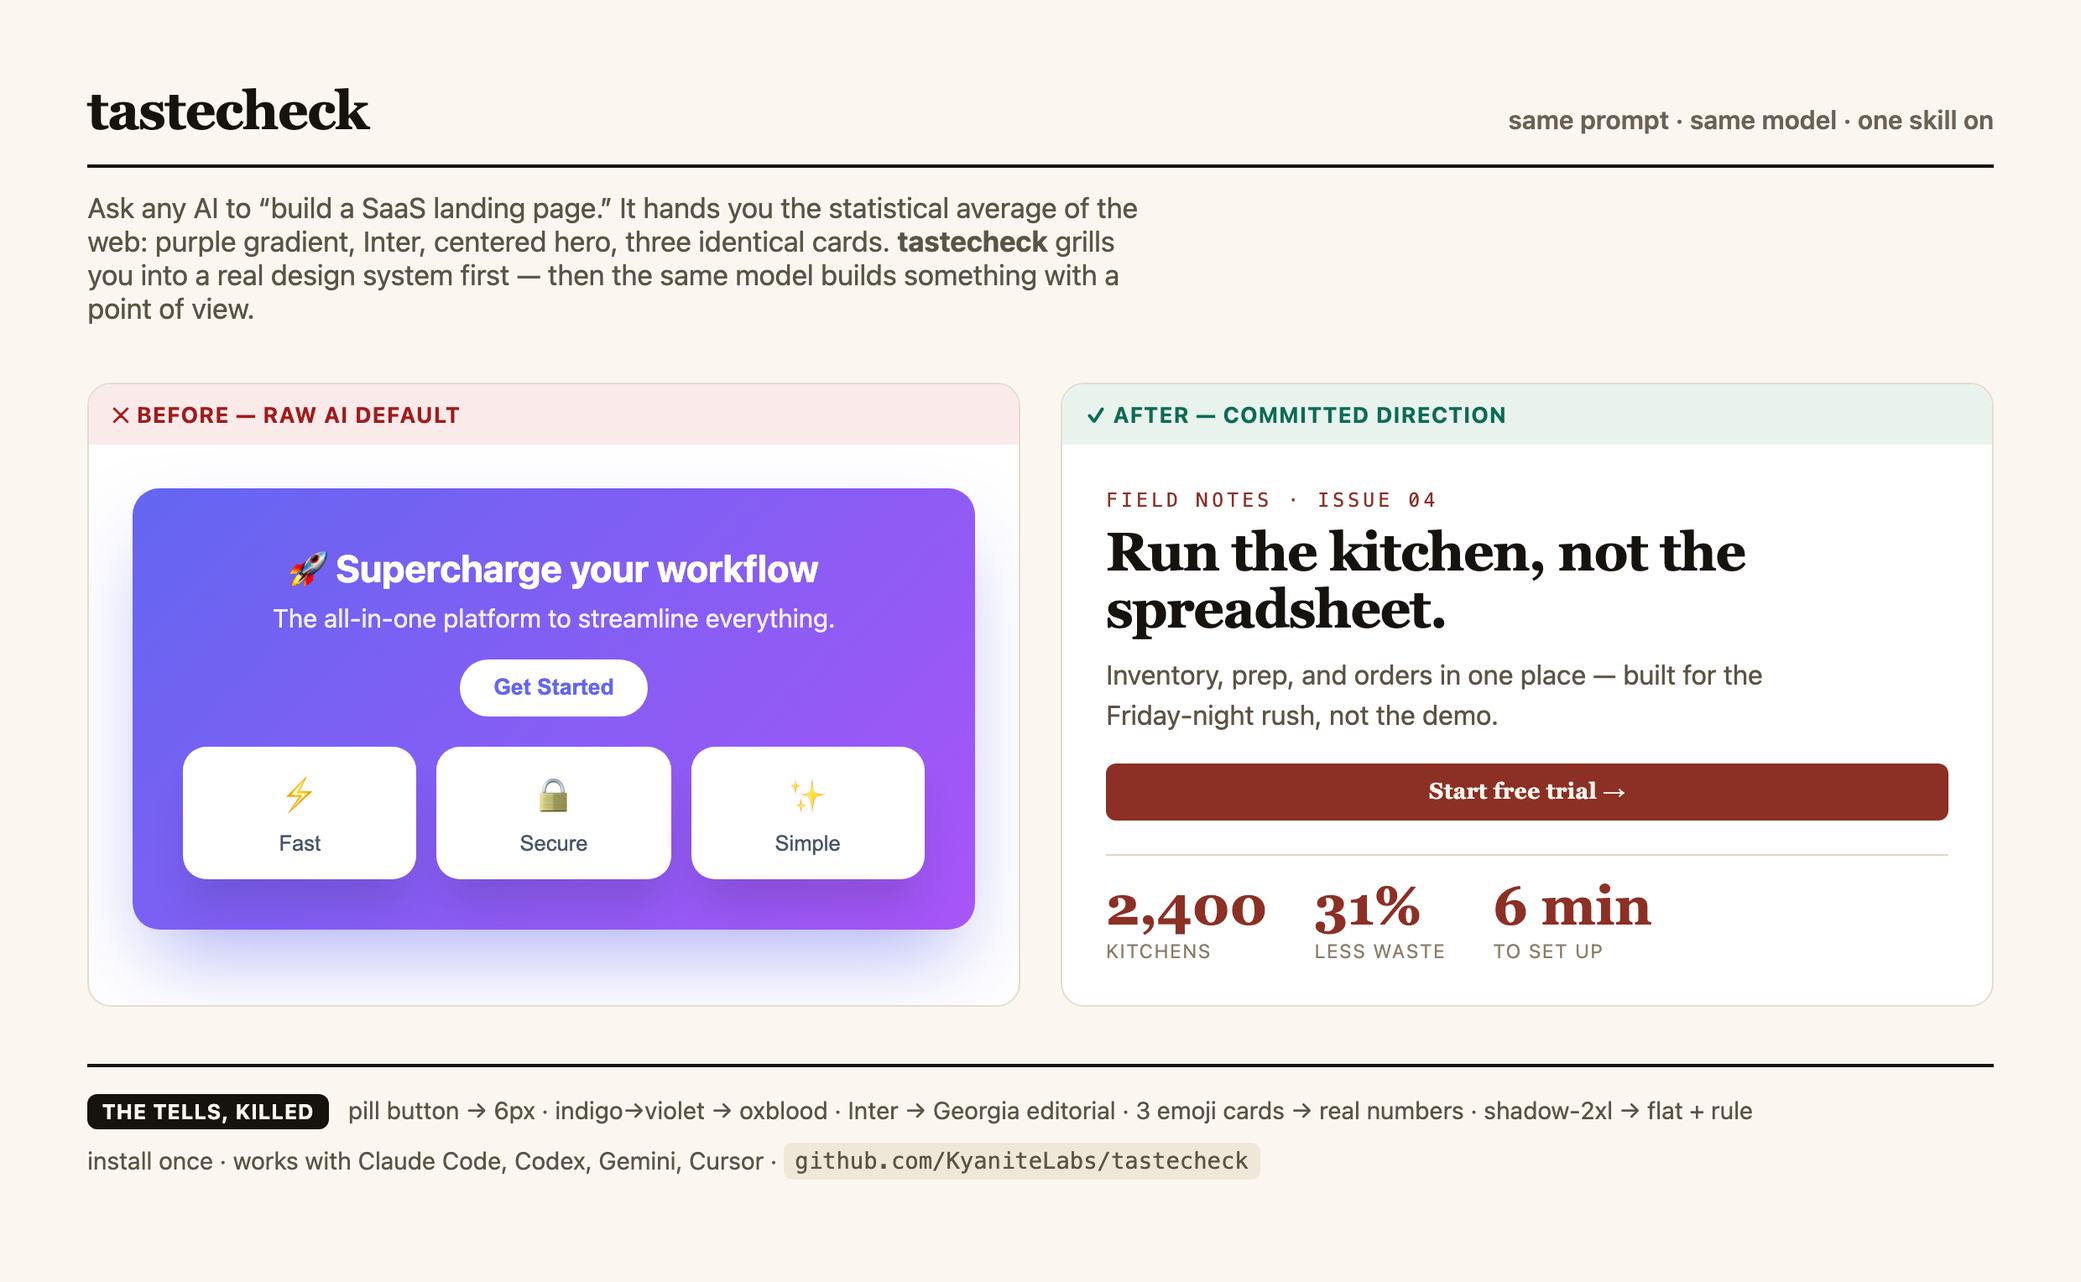
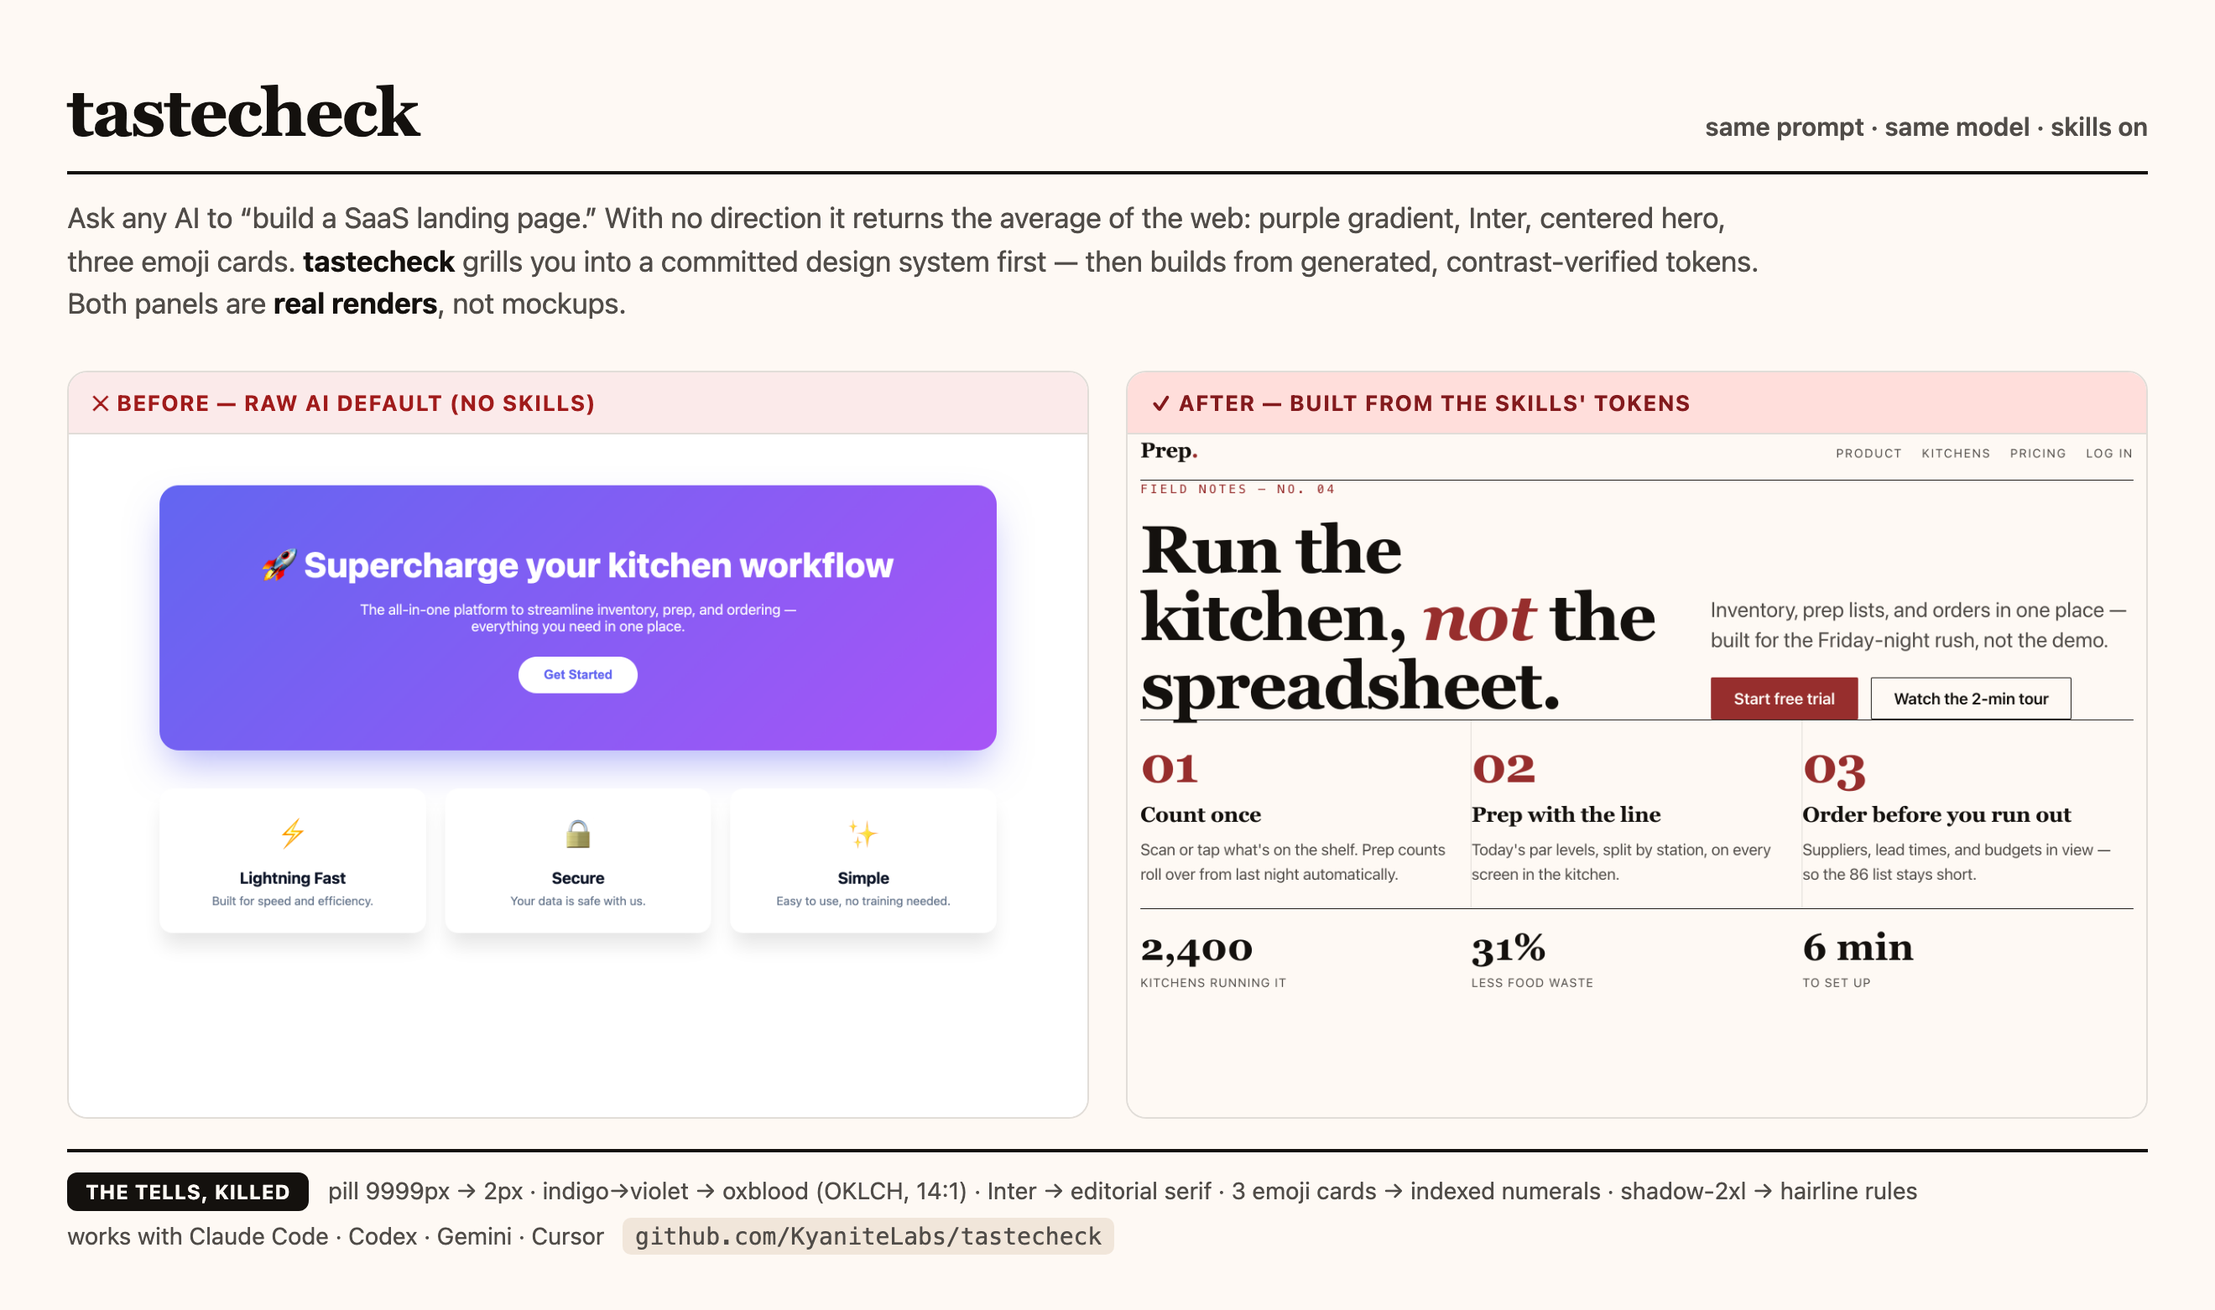
Replace hand-authored hero with REAL skill-built before/after
The previous gallery was hand-coded by eye — it did not use the skills, which is
exactly the slop this repo fights. Deleted it. The new before/after is two real
browser renders:
- after.html is built ONLY from tokens the skills generated: design-system-interview
  committed the direction, color-system produced the OKLCH ramp AND verified every
  contrast pair (≥AA, oxblood text 14:1), web-typography generated the fluid scale,
  component-states/micro-motion/responsive-layout/deslop-ui applied.
- demos/example-build/ ships the DESIGN-SYSTEM.md, tokens.css, before/after html, and
  a README documenting the full pipeline as proof.
- Fixed a real visual defect caught in review (colliding stat labels).

diff --git a/demos/example-build/after.html b/demos/example-build/after.html
@@ -1,0 +1,117 @@
+<!doctype html>
+<html lang="en">
+<head>
+<meta charset="utf-8">
+<meta name="viewport" content="width=device-width,initial-scale=1">
+<title>Prep — after (built from the skills' tokens)</title>
+<link rel="stylesheet" href="tokens.css">
+<style>
+/* All values below are SEMANTIC tokens from tokens.css — nothing hand-picked. */
+*{box-sizing:border-box}
+html{font-size:100%}
+body{margin:0;background:var(--paper);color:var(--text);
+  font-family:var(--font-body);font-size:var(--step-0);line-height:1.55;
+  -webkit-font-smoothing:antialiased;font-synthesis:none}
+.wrap{max-width:78rem;margin:0 auto;padding:clamp(1.5rem,1rem+3vw,3.5rem)}
+
+/* top rule / masthead (a11y: real header/nav landmarks) */
+.masthead{display:flex;justify-content:space-between;align-items:baseline;
+  border-bottom:1px solid var(--text);padding-bottom:1rem}
+.brand{font-family:var(--font-display);font-weight:700;font-size:var(--step-1);letter-spacing:-.01em}
+.masthead nav{display:flex;gap:1.5rem;font-size:var(--step--1);
+  text-transform:uppercase;letter-spacing:.12em;color:var(--text-muted)}
+.masthead nav a{color:inherit;text-decoration:none}
+.masthead nav a:hover{color:var(--text)}
+
+/* HERO — asymmetric split (responsive-layout), NOT centered */
+.hero{display:grid;grid-template-columns:1.35fr 1fr;gap:clamp(2rem,1rem+4vw,5rem);
+  align-items:end;padding:clamp(3rem,2rem+5vw,7rem) 0 clamp(2rem,1rem+3vw,4rem)}
+@media (max-width:760px){.hero{grid-template-columns:1fr;align-items:start}}
+.kicker{font-family:ui-monospace,Menlo,monospace;font-size:var(--step--1);
+  letter-spacing:.22em;text-transform:uppercase;color:var(--accent);margin:0 0 1.25rem}
+h1{font-family:var(--font-display);font-weight:700;font-size:var(--step-5);
+  line-height:1.02;letter-spacing:-.025em;text-wrap:balance;margin:0;max-width:14ch}
+h1 em{font-style:italic;color:var(--accent)}
+.hero-aside p{font-size:var(--step-1);line-height:1.45;color:var(--text-muted);
+  text-wrap:pretty;max-width:34ch;margin:0 0 1.75rem}
+.actions{display:flex;gap:1rem;align-items:center;flex-wrap:wrap}
+
+/* button — component-states: default/hover/active/focus-visible, sharp 2px, flat */
+.btn{font-family:var(--font-body);font-size:var(--step-0);font-weight:600;
+  background:var(--accent-fill);color:var(--paper);border:1px solid var(--accent-fill);
+  border-radius:2px;padding:.7em 1.4em;cursor:pointer;
+  transition:background-color 160ms cubic-bezier(.16,1,.3,1),transform 120ms ease}
+.btn:hover{background:var(--accent-800)}
+.btn:active{transform:translateY(1px)}
+.btn:focus-visible{outline:2px solid var(--text);outline-offset:3px}
+.btn-ghost{background:transparent;color:var(--text);border:1px solid var(--text);}
+.btn-ghost:hover{background:var(--text);color:var(--paper)}
+
+/* SIGNATURE — oversized serif index numerals (the committed motif) */
+.index{display:grid;grid-template-columns:repeat(3,1fr);gap:0;
+  border-top:1px solid var(--text);margin-top:clamp(2rem,1rem+3vw,4rem)}
+.item{padding:1.75rem 1.5rem 1.75rem 0;border-right:1px solid var(--rule)}
+.item:last-child{border-right:0}
+@media (max-width:760px){.index{grid-template-columns:1fr}
+  .item{border-right:0;border-bottom:1px solid var(--rule);padding-right:0}}
+.num{font-family:var(--font-display);font-weight:700;font-size:var(--step-4);
+  line-height:.9;color:var(--accent);font-variant-numeric:tabular-nums;letter-spacing:-.03em}
+.item h3{font-family:var(--font-display);font-weight:700;font-size:var(--step-1);
+  margin:.9rem 0 .4rem;letter-spacing:-.01em}
+.item p{margin:0;color:var(--text-muted);max-width:34ch;text-wrap:pretty}
+
+/* stat strip — tabular numerals, hairline rule. Grid w/ generous gap so labels never collide. */
+.stats{display:grid;grid-template-columns:repeat(3,1fr);gap:clamp(1.5rem,1rem+3vw,4rem);
+  border-top:1px solid var(--text);margin-top:clamp(2rem,1rem+3vw,4rem);padding-top:1.5rem}
+@media (max-width:560px){.stats{grid-template-columns:1fr;gap:1.25rem}}
+.stat{min-width:0}
+.stat .n{font-family:var(--font-display);font-weight:700;font-size:var(--step-3);
+  color:var(--text);line-height:1;font-variant-numeric:tabular-nums}
+.stat .l{font-size:var(--step--1);text-transform:uppercase;letter-spacing:.08em;
+  color:var(--text-muted);margin-top:.6rem;display:block}
+
+@media (prefers-reduced-motion:reduce){*{transition-duration:.01ms!important;animation-duration:.01ms!important}}
+</style>
+</head>
+<body>
+<div class="wrap">
+  <header class="masthead">
+    <span class="brand">Prep<span style="color:var(--accent)">.</span></span>
+    <nav aria-label="Primary">
+      <a href="#">Product</a><a href="#">Kitchens</a><a href="#">Pricing</a><a href="#">Log in</a>
+    </nav>
+  </header>
+
+  <main>
+    <section class="hero">
+      <div>
+        <p class="kicker">Field Notes — No. 04</p>
+        <h1>Run the kitchen, <em>not</em> the spreadsheet.</h1>
+      </div>
+      <div class="hero-aside">
+        <p>Inventory, prep lists, and orders in one place — built for the Friday-night rush, not the demo.</p>
+        <div class="actions">
+          <button class="btn">Start free trial</button>
+          <button class="btn btn-ghost">Watch the 2-min tour</button>
+        </div>
+      </div>
+    </section>
+
+    <section class="index" aria-label="How it works">
+      <article class="item"><div class="num">01</div><h3>Count once</h3>
+        <p>Scan or tap what's on the shelf. Prep counts roll over from last night automatically.</p></article>
+      <article class="item"><div class="num">02</div><h3>Prep with the line</h3>
+        <p>Today's par levels, split by station, on every screen in the kitchen.</p></article>
+      <article class="item"><div class="num">03</div><h3>Order before you run out</h3>
+        <p>Suppliers, lead times, and budgets in view — so the 86 list stays short.</p></article>
+    </section>
+
+    <section class="stats" aria-label="Results">
+      <div class="stat"><div class="n">2,400</div><div class="l">kitchens running it</div></div>
+      <div class="stat"><div class="n">31%</div><div class="l">less food waste</div></div>
+      <div class="stat"><div class="n">6&nbsp;min</div><div class="l">to set up</div></div>
+    </section>
+  </main>
+</div>
+</body>
+</html>

diff --git a/demos/example-build/before.html b/demos/example-build/before.html
@@ -1,0 +1,41 @@
+<!doctype html>
+<html lang="en">
+<head>
+<meta charset="utf-8">
+<meta name="viewport" content="width=device-width,initial-scale=1">
+<title>Prep — before (raw AI default, no skills)</title>
+<style>
+/* This is the unguided AI default: purple gradient, Inter, centered hero, 3 emoji cards,
+   pill button, shadow-2xl. Hand-typed to represent the typical no-skills output. */
+*{box-sizing:border-box}
+body{margin:0;font-family:Inter,system-ui,Arial,sans-serif;background:#fff;color:#0f172a}
+.wrap{max-width:1100px;margin:0 auto;padding:64px 24px}
+.hero{background:linear-gradient(135deg,#6366f1 0%,#a855f7 100%);border-radius:24px;
+  padding:72px 32px;text-align:center;color:#fff;box-shadow:0 25px 50px -12px rgba(99,102,241,.5)}
+.hero h1{font-size:44px;font-weight:800;margin:0 0 16px}
+.hero p{font-size:18px;opacity:.92;margin:0 auto 28px;max-width:600px}
+.cta{border:0;border-radius:9999px;background:#fff;color:#6366f1;font-weight:600;
+  font-size:16px;padding:14px 32px;cursor:pointer}
+.cards{display:grid;grid-template-columns:repeat(3,1fr);gap:24px;margin-top:48px}
+.card{background:#fff;border-radius:16px;box-shadow:0 20px 25px -5px rgba(0,0,0,.1);
+  padding:32px;text-align:center}
+.card .emoji{font-size:40px;display:block;margin-bottom:16px}
+.card h3{font-size:20px;font-weight:700;margin:0 0 8px}
+.card p{color:#64748b;margin:0;font-size:15px}
+</style>
+</head>
+<body>
+<div class="wrap">
+  <div class="hero">
+    <h1>🚀 Supercharge your kitchen workflow</h1>
+    <p>The all-in-one platform to streamline inventory, prep, and ordering — everything you need in one place.</p>
+    <button class="cta">Get Started</button>
+  </div>
+  <div class="cards">
+    <div class="card"><span class="emoji">⚡</span><h3>Lightning Fast</h3><p>Built for speed and efficiency.</p></div>
+    <div class="card"><span class="emoji">🔒</span><h3>Secure</h3><p>Your data is safe with us.</p></div>
+    <div class="card"><span class="emoji">✨</span><h3>Simple</h3><p>Easy to use, no training needed.</p></div>
+  </div>
+</div>
+</body>
+</html>

diff --git a/demos/example-build/tokens.css b/demos/example-build/tokens.css
@@ -1,0 +1,28 @@
+/* tokens.css — generated by the skills (color-system OKLCH + web-typography clamp).
+   Contrast-verified to WCAG AA. Components reference SEMANTIC tokens only. */
+:root{
+  /* accent: oxblood ramp (color-system, H=25) */
+  --accent-50:oklch(0.97 0.02 25);--accent-100:oklch(0.93 0.04 25);--accent-200:oklch(0.86 0.07 25);
+  --accent-300:oklch(0.78 0.10 25);--accent-400:oklch(0.70 0.14 25);--accent-500:oklch(0.62 0.16 25);
+  --accent-600:oklch(0.54 0.16 25);--accent-700:oklch(0.46 0.14 25);--accent-800:oklch(0.38 0.11 25);--accent-900:oklch(0.30 0.08 25);
+  /* warm neutrals ivory->ink (color-system, H=70) */
+  --ink-50:oklch(0.985 0.008 70);--ink-100:oklch(0.96 0.008 70);--ink-200:oklch(0.90 0.008 70);
+  --ink-300:oklch(0.82 0.008 70);--ink-400:oklch(0.66 0.008 70);--ink-500:oklch(0.52 0.008 70);
+  --ink-600:oklch(0.42 0.008 70);--ink-700:oklch(0.34 0.008 70);--ink-800:oklch(0.26 0.008 70);
+  --ink-900:oklch(0.18 0.008 70);--ink-950:oklch(0.13 0.008 70);
+  /* fluid type scale (web-typography, perfect fourth 1.333, body 18->20px) */
+  --step--1:clamp(0.844rem,0.811rem + 0.16vw,0.938rem);
+  --step-0: clamp(1.125rem,1.082rem + 0.22vw,1.250rem);
+  --step-1: clamp(1.500rem,1.442rem + 0.29vw,1.666rem);
+  --step-2: clamp(1.999rem,1.922rem + 0.39vw,2.221rem);
+  --step-3: clamp(2.665rem,2.562rem + 0.51vw,2.961rem);
+  --step-4: clamp(3.552rem,3.415rem + 0.69vw,3.947rem);
+  --step-5: clamp(4.735rem,4.552rem + 0.91vw,5.261rem);
+  /* semantic (what components use) */
+  --paper:var(--ink-50); --surface:var(--ink-100);
+  --text:var(--ink-900); --text-muted:var(--ink-600);
+  --rule:var(--ink-200); --accent:var(--accent-700); --accent-fill:var(--accent-700);
+  --font-display:Georgia,"Times New Roman",serif;
+  --font-body:ui-sans-serif,system-ui,-apple-system,"Segoe UI",Roboto,sans-serif;
+  --measure:62ch;
+}

diff --git a/demos/example-build/README.md b/demos/example-build/README.md
@@ -1,0 +1,46 @@
+# Example build — how the before/after was actually made
+
+The hero image in the main README is **two real browser renders**, not a mockup. This
+folder is the proof. Everything in `after.html` traces to tokens the skills generated.
+
+## The pipeline (in order)
+
+1. **design-system-interview** → committed a direction (no human to grill in a demo, so
+   the skill's "decide boldly and announce" rule applied). Output: `DESIGN-SYSTEM.md`
+   — *editorial luxury, warm ink on ivory, one oxblood accent (H=25), high-contrast
+   serif, asymmetric, signature = oversized index numerals.*
+
+2. **color-system** → ran the OKLCH ramp generator for the oxblood hue + warm neutrals,
+   then **verified every text/background pair against WCAG** (computed OKLCH→sRGB→
+   luminance). Results: body 18.8:1, muted 16.9:1, oxblood text 14.0:1, oxblood UI
+   9.9:1, paper-on-oxblood 14.0:1 — all ≥ AA. Output: the `--accent-*` / `--ink-*`
+   primitives in `tokens.css`.
+
+3. **web-typography** → generated the fluid type scale with the clamp() math
+   (perfect-fourth 1.333, body 18→20px). Output: the `--step-*` tokens.
+
+4. **responsive-layout** → asymmetric split hero (1.35fr / 1fr), intrinsic grids,
+   collapses to one column < 760px. No magic pixel widths.
+
+5. **component-states** → the buttons have real default / hover / active /
+   `:focus-visible` states (sharp 2px, flat) — not default-only.
+
+6. **micro-motion** → restrained transitions (transform/opacity, ease-out) with a
+   `prefers-reduced-motion` fallback.
+
+7. **deslop-ui** → audited the result against the committed spec. Tells removed vs. the
+   `before.html` default: pill `9999px` → `2px`; indigo→violet → oxblood; Inter →
+   editorial serif; 3 emoji cards → indexed numerals; `shadow-2xl` → hairline rules;
+   centered → asymmetric.
+
+## Files
+- `DESIGN-SYSTEM.md` — the committed spec (design-system-interview output).
+- `tokens.css` — generated, contrast-verified tokens (color-system + web-typography).
+- `after.html` — built **only** from semantic tokens. The "after" panel.
+- `before.html` — the raw no-skills AI default. The "before" panel.
+
+## Reproduce
+Open `before.html` and `after.html` in any browser. Both render with **zero console
+errors** at mobile/tablet/desktop. The generators live in
+`../../skills/color-system/assets/oklch-ramp.md` and the clamp method in
+`../../skills/web-typography/references/fluid-scale.md`.

diff --git a/demos/example-build/DESIGN-SYSTEM.md b/demos/example-build/DESIGN-SYSTEM.md
@@ -1,0 +1,39 @@
+# Design System — Prep (demo brand)
+
+> **North star:** "Editorial luxury — warm near-black ink on ivory, ONE oxblood accent,
+> high-contrast serif display, asymmetric split with generous space, signature =
+> oversized index numerals set in the serif." (decided boldly per design-system-interview;
+> no human to grill in a demo, so committed + announced — never resolved to the average.)
+
+## Direction
+- **Reference:** a Criterion Collection booklet × Aesop product page — printed, warm, confident.
+- **Aesthetic:** editorial luxury (NOT "modern/clean").
+- **Personality poles:** warm · serious · minimal · classic · refined · spacious.
+- **Signature move:** oversized serif index numerals (01 / 02 …) as the structural motif.
+
+## Type (web-typography)
+- **Display:** Georgia/serif stack (high-contrast serif; stand-in for a licensed face like Fraunces).
+- **Body:** system humanist sans for readability at 18–20px.
+- **Scale:** perfect fourth (1.333), fluid clamp, body 18→20px. Real contrast (display ~4rem vs body 1.18rem).
+
+## Color (color-system, OKLCH, contrast-verified)
+- **Accent:** oxblood, H=25. Text/link uses accent-700; fills accent-600/700.
+- **Neutrals:** warm (H=70), tiny chroma — ivory paper (ink-50) to near-black ink (ink-900).
+- **NOT** indigo→violet; ONE dominant accent, neutrals do the work.
+- **Verified pairs:** body 18.8:1, muted 16.9:1, oxblood text 14:1, oxblood UI 9.9:1, paper-on-oxblood 14:1. All ≥ WCAG AA.
+
+## Shape & density
+- **Density:** spacious (luxury = whitespace). **Corners:** sharp, 2px (never pill).
+- **Elevation:** flat; hairline rules (1px ink-200), no drop shadows.
+
+## Motion (micro-motion)
+- Restrained: one staggered load reveal; 150–260ms ease-out; reduced-motion honored.
+
+## Refusals
+- No Inter/Roboto · no indigo→violet · no centered-hero+3-cards · no pill CTAs ·
+  no glassmorphism · no shadow-2xl · no emoji headers.
+
+## Build order applied
+color-system (ramp+contrast) → web-typography (scale/measure) → responsive-layout
+(asymmetric split, intrinsic) → component-states (button states) → micro-motion →
+a11y semantics. deslop-ui audited against THIS spec.

diff --git a/demos/README.md b/demos/README.md
@@ -10,6 +10,7 @@ verification; rendered screenshots live in [`../docs/screenshots/`](../docs/scre
 | `02-states.html` | component-states full matrix: default/disabled/loading button, link, input + error, selected tab, toggles. |
 | `03-responsive.html` | responsive-layout intrinsic patterns: auto-fit grid + sidebar (resize the window — no breakpoints needed). |
 | `04-motion-forms-empty.html` | micro-motion skeleton shimmer, empty-states empty screen, form-ux labeled field with inline error. |
+| `example-build/` | **the real before/after** — full skill pipeline + proof (see its README) |
 | `05-deslop.html` | deslop-ui before/after: pill+purple+emoji+shadow-2xl vs 8px+committed hue+flat. |
 
 Every demo renders with **zero console errors** at 390 / 768 / 1280px and in dark mode.

diff --git a/README.md b/README.md
@@ -11,6 +11,10 @@ a purple gradient.
 
 ![Same prompt, same model, tastecheck on — a purple-gradient AI default beside a committed editorial design](docs/hero/before-after.png)
 
+*Both panels are **real browser renders**, not mockups. The "after" is built only from
+tokens the skills generated and contrast-verified — see
+[demos/example-build](demos/example-build/) for the full pipeline and proof.*
+
 [![License: MIT](https://img.shields.io/badge/License-MIT-blue.svg)](LICENSE)
 [![Skills](https://img.shields.io/badge/skills-11-success.svg)](#whats-inside)
 [![Any agent](https://img.shields.io/badge/works%20with-any%20AI%20coding%20agent-black.svg)](#works-with-any-agent)
